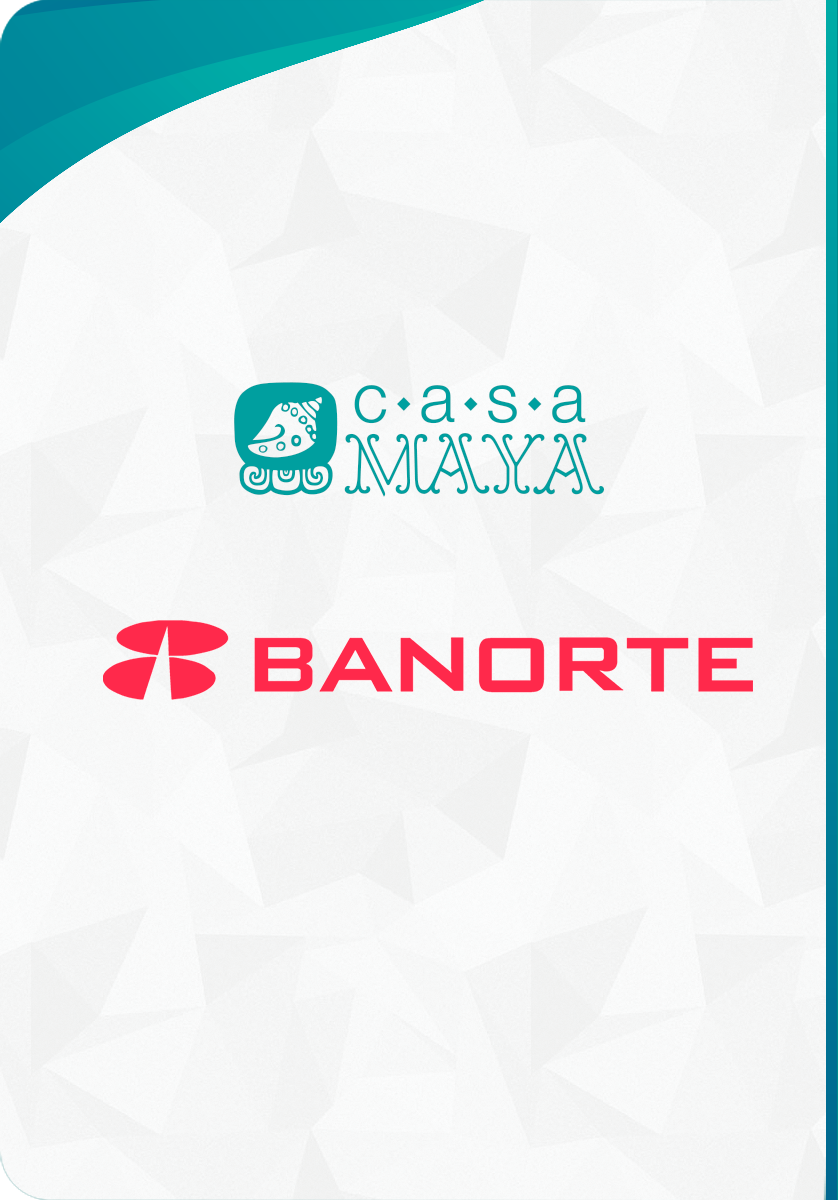
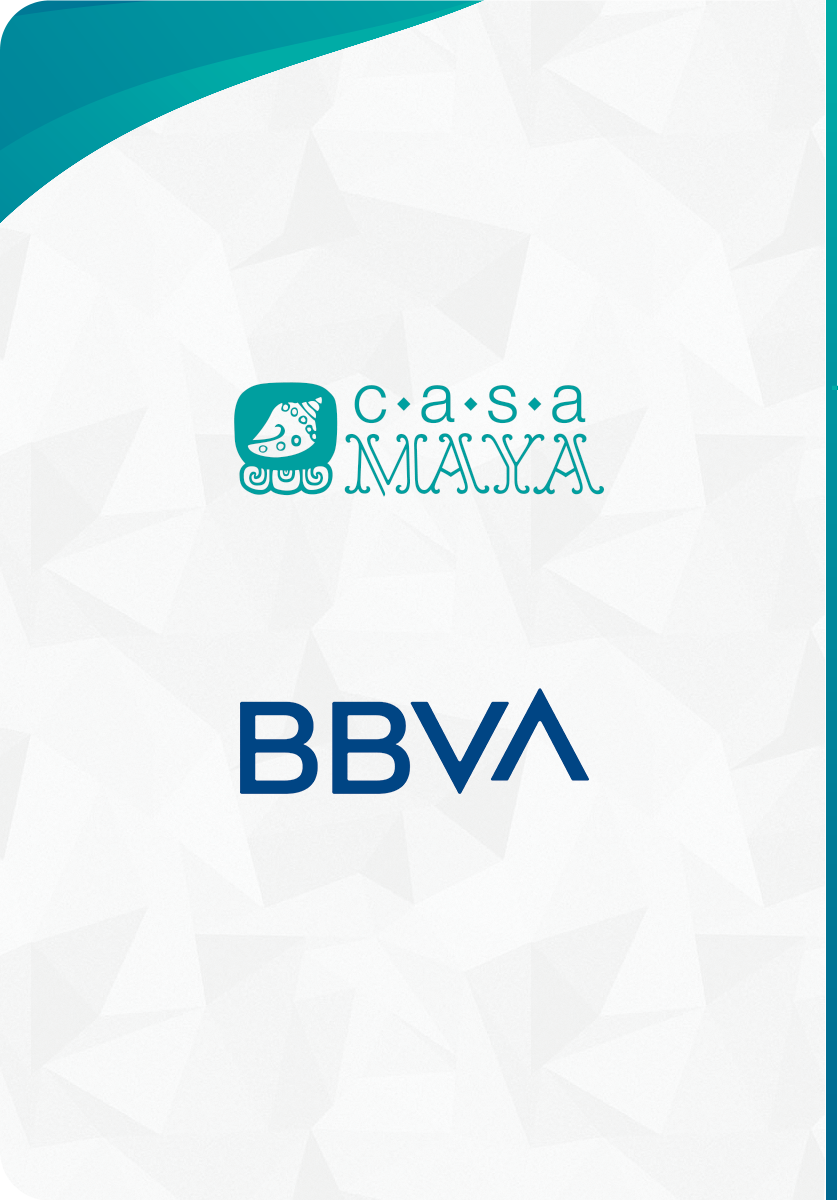
layout

Changed region(s): [[0.1241, 0.4933, 0.8998, 0.6783], [0.9928, 0.0, 1.0, 1.0]]

diff --git a/src/pages/destinos/hotel-casa-maya-holbox/index.js b/src/pages/destinos/hotel-casa-maya-holbox/index.js
@@ -24,7 +24,7 @@ const CasaMayaPage = ({data}) => {
     const bungalow = getImage(data.bungalow)
     const estandar = getImage(data.estandar)
     const holbox = getImage(data.holbox)
-    const banorte = getImage(data.banorte)
+    const bbva = getImage(data.bbva)
     const visa = getImage(data.visa)
     const mastercard = getImage(data.mastercard)
     const paypal = getImage(data.paypal)
@@ -410,8 +410,8 @@ const CasaMayaPage = ({data}) => {
                     />
 
                     <GatsbyImage  
-                        image={banorte}
-                        alt="banorte logo"
+                        image={bbva}
+                        alt="bbva logo"
                     />
 
                 </div>
@@ -439,16 +439,16 @@ const CasaMayaPage = ({data}) => {
                         </div>
                         <div className="text-lg flex-grow flex flex-col justify-center">
                             <p className="my-1 font-semibold">
-                                Banorte México
+                                BBVA México
                             </p>
                             <p className="my-1 font-semibold">
-                                René Gámez Handal
+                                OP HOTELERA Y TURISTICA S.A DE C.V.
                             </p>
                             <p className="my-1">
-                                Cuenta: <span className="font-extrabold">0296549007</span>
+                                Cuenta: <span className="font-extrabold">0114187318</span>
                             </p>
                             <p className="my-1">
-                                Clabe: <span className="font-extrabold">072691002965490077</span>
+                                Clabe: <span className="font-extrabold">012691001141873181</span>
                             </p>
                         </div>
                         <div className="flex justify-between pt-4 items-center">
@@ -577,6 +577,17 @@ export const pageQuery = graphql `
                 gatsbyImageData(
                     layout: CONSTRAINED
                     width: 500
+                    placeholder: BLURRED 
+                    formats: [WEBP]
+                    quality: 100
+                )
+            }
+        }
+        bbva: file(relativePath: {eq: "bbva.png"}) {
+            childImageSharp {
+                gatsbyImageData(
+                    layout: CONSTRAINED
+                    width: 400
                     placeholder: BLURRED 
                     formats: [WEBP]
                     quality: 100

diff --git a/src/pages/destinos/hotel-pier-bacalar/index.js b/src/pages/destinos/hotel-pier-bacalar/index.js
@@ -23,7 +23,7 @@ const PierPage = ({data}) => {
     const panoramica = getImage(data.panoramica)
     const cabana = getImage(data.cabana)
     const bacalar = getImage(data.bacalar)
-    const banorte = getImage(data.banorte)
+    const bbva = getImage(data.bbva)
     const visa = getImage(data.visa)
     const mastercard = getImage(data.mastercard)
     const paypal = getImage(data.paypal)
@@ -334,8 +334,8 @@ const PierPage = ({data}) => {
                     />
 
                     <GatsbyImage  
-                        image={banorte}
-                        alt="banorte logo"
+                        image={bbva}
+                        alt="bbva logo"
                     />
 
                 </div>
@@ -363,16 +363,16 @@ const PierPage = ({data}) => {
                         </div>
                         <div className="text-lg flex-grow flex flex-col justify-center">
                             <p className="my-1 font-semibold">
-                                Banorte México
+                                BBVA México
                             </p>
                             <p className="my-1 font-semibold">
-                                René Gámez Handal
+                                OP HOTELERA Y TURISTICA S.A DE C.V.
                             </p>
                             <p className="my-1">
-                                Cuenta: <span className="font-extrabold">0296549007</span>
+                                Cuenta: <span className="font-extrabold">0114187318</span>
                             </p>
                             <p className="my-1">
-                                Clabe: <span className="font-extrabold">072691002965490077</span>
+                                Clabe: <span className="font-extrabold">012691001141873181</span>
                             </p>
                         </div>
                         <div className="flex justify-between pt-4 items-center">
@@ -479,6 +479,17 @@ export const pageQuery = graphql `
                 gatsbyImageData(
                     layout: CONSTRAINED
                     width: 500
+                    placeholder: BLURRED 
+                    formats: [WEBP]
+                    quality: 100
+                )
+            }
+        }
+        bbva: file(relativePath: {eq: "bbva.png"}) {
+            childImageSharp {
+                gatsbyImageData(
+                    layout: CONSTRAINED
+                    width: 400
                     placeholder: BLURRED 
                     formats: [WEBP]
                     quality: 100

diff --git a/src/pages/destinos/hotel-casa-maya-holbox/payment.js b/src/pages/destinos/hotel-casa-maya-holbox/payment.js
@@ -14,7 +14,7 @@ const PaymentMethod = class extends React.Component {
     render() {
     
         return (
-            <Layout>
+            <Layout path={this.props.path}>
                 <div 
                     className="bg-black bg-opacity-75
                         flex justify-between px-4 sm:px-0"
@@ -48,16 +48,16 @@ const PaymentMethod = class extends React.Component {
                                 </div>
                                 <div className="text-2xl flex-grow flex flex-col justify-center">
                                     <p className="my-4 font-semibold">
-                                        Banorte México
+                                        BBVA México
                                     </p>
                                     <p className="my-4 font-semibold">
-                                        René Gámez Handal
+                                        OP HOTELERA Y TURISTICA S.A DE C.V.
                                     </p>
                                     <p className="my-4">
-                                        Cuenta: <span className="font-extrabold">0296549007</span>
+                                        Cuenta: <span className="font-extrabold">0114187318</span>
                                     </p>
                                     <p className="my-4">
-                                        Clabe: <span className="font-extrabold">072691002965490077</span>
+                                        Clabe: <span className="font-extrabold">012691001141873181</span>
                                     </p>
                                 </div>
                                 <div className="flex justify-between pt-4 items-center">

diff --git a/src/pages/destinos/hotel-pier-bacalar/payment.js b/src/pages/destinos/hotel-pier-bacalar/payment.js
@@ -14,7 +14,7 @@ const PaymentMethod = class extends React.Component {
     render() {
     
         return (
-            <Layout>
+            <Layout path={this.props.path}>
                 <div 
                     className="bg-black bg-opacity-75
                         flex justify-between px-4 sm:px-0"
@@ -48,16 +48,16 @@ const PaymentMethod = class extends React.Component {
                                 </div>
                                 <div className="text-2xl flex-grow flex flex-col justify-center">
                                     <p className="my-4 font-semibold">
-                                        Banorte México
+                                        BBVA México
                                     </p>
                                     <p className="my-4 font-semibold">
-                                        René Gámez Handal
+                                        OP HOTELERA Y TURISTICA S.A DE C.V.
                                     </p>
                                     <p className="my-4">
-                                        Cuenta: <span className="font-extrabold">0296549007</span>
+                                        Cuenta: <span className="font-extrabold">0114187318</span>
                                     </p>
                                     <p className="my-4">
-                                        Clabe: <span className="font-extrabold">072691002965490077</span>
+                                        Clabe: <span className="font-extrabold">012691001141873181</span>
                                     </p>
                                 </div>
                                 <div className="flex justify-between pt-4 items-center">

diff --git a/src/components/Layout.js b/src/components/Layout.js
@@ -37,6 +37,12 @@ export default class Layout extends React.Component {
     }
     
     window.addEventListener("resize", this.resizeHandler)
+    console.log(this.props.path)
+    if(this.props.path !== "/"){
+      this.setState({
+        modalIsActive: false
+      })
+    }
   }
 
   componentWillUnmount() {
@@ -117,6 +123,12 @@ const TemplateWrapper = ({
   const { title, description } = useSiteMetadata()
 
   function DisplayBookingBar(props) {
+
+    const path = props.path
+    
+    if( path === "/menu/" || path === "/destinos/hotel-pier-bacalar/payment/" || path === "/destinos/hotel-casa-maya-holbox/payment/" || path === "/destinos/hotel-xo-bacalar/payment/" ) {
+      return null
+    }
     
     return <Reservation class={reservationClass} />
   }
@@ -166,10 +178,7 @@ const TemplateWrapper = ({
         packagesAreActive? <Packages handler={packageHandler} /> : ''
       }
       {
-        path !== '/menu/'
-        ? 
-          modalIsActive?<PromoModal handler={modalHandler} /> : ''
-        : ''
+        modalIsActive?<PromoModal handler={modalHandler} /> : ''
       }
       <div 
 

diff --git a/src/pages/destinos/hotel-xo-bacalar/payment.js b/src/pages/destinos/hotel-xo-bacalar/payment.js
@@ -14,7 +14,7 @@ const PaymentMethod = class extends React.Component {
     render() {
     
         return (
-            <Layout>
+            <Layout path={this.props.path}>
                 <div 
                     className="bg-black bg-opacity-75
                         flex justify-between px-4 sm:px-0"

diff --git a/src/pages/menu.js b/src/pages/menu.js
@@ -71,7 +71,7 @@ const Menu = class extends React.Component {
         const breakfast = getImage(data.breakfast)
 
         return (
-            <Layout>
+            <Layout path={this.props.path}>
                 <div>
                     <div
                         className="flex justify-center my-4"

diff --git a/src/templates/index-page.js b/src/templates/index-page.js
@@ -35,7 +35,7 @@ const IndexPageTemplate = ({ data }) => {
   const xoBar = getImage(data.xobar)
 
   return(
-    <Layout>
+    <Layout path="/">
       <Carousel
         nextLabel={null}
         prevLabel={null}
